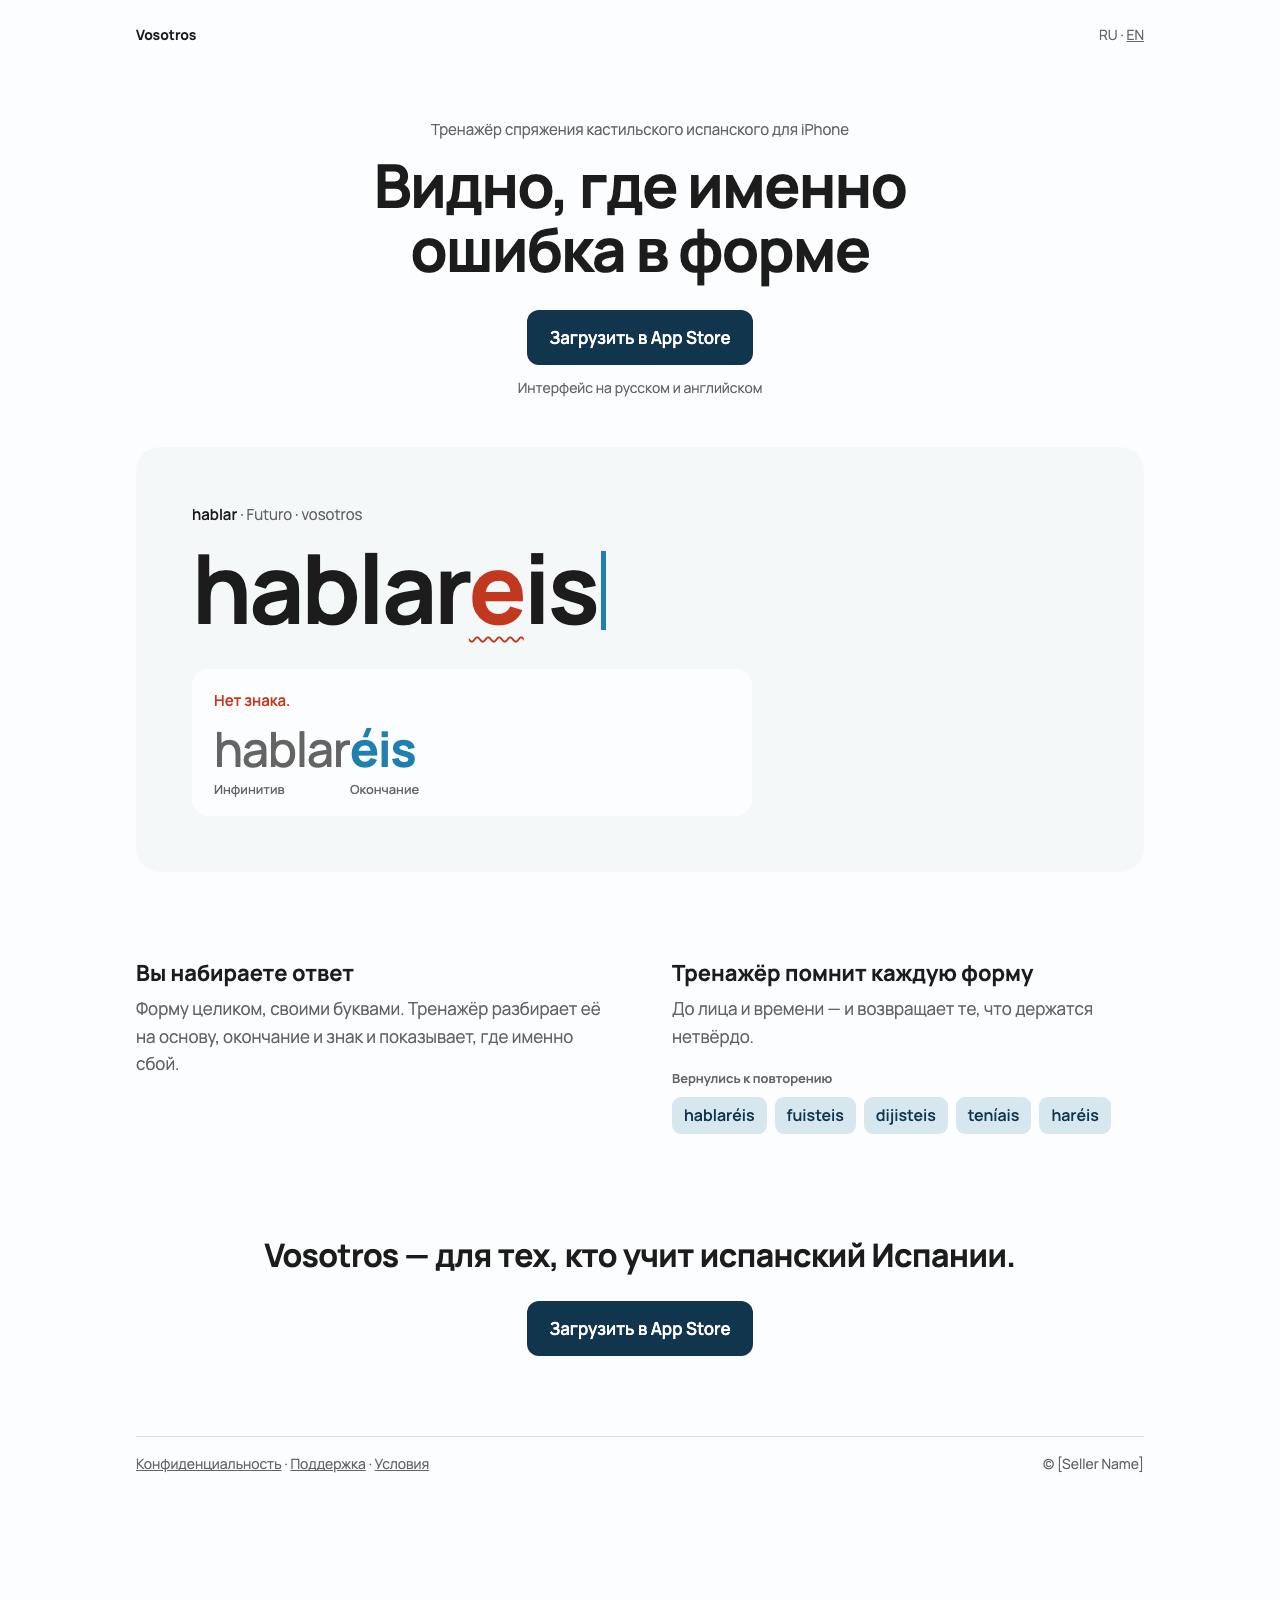
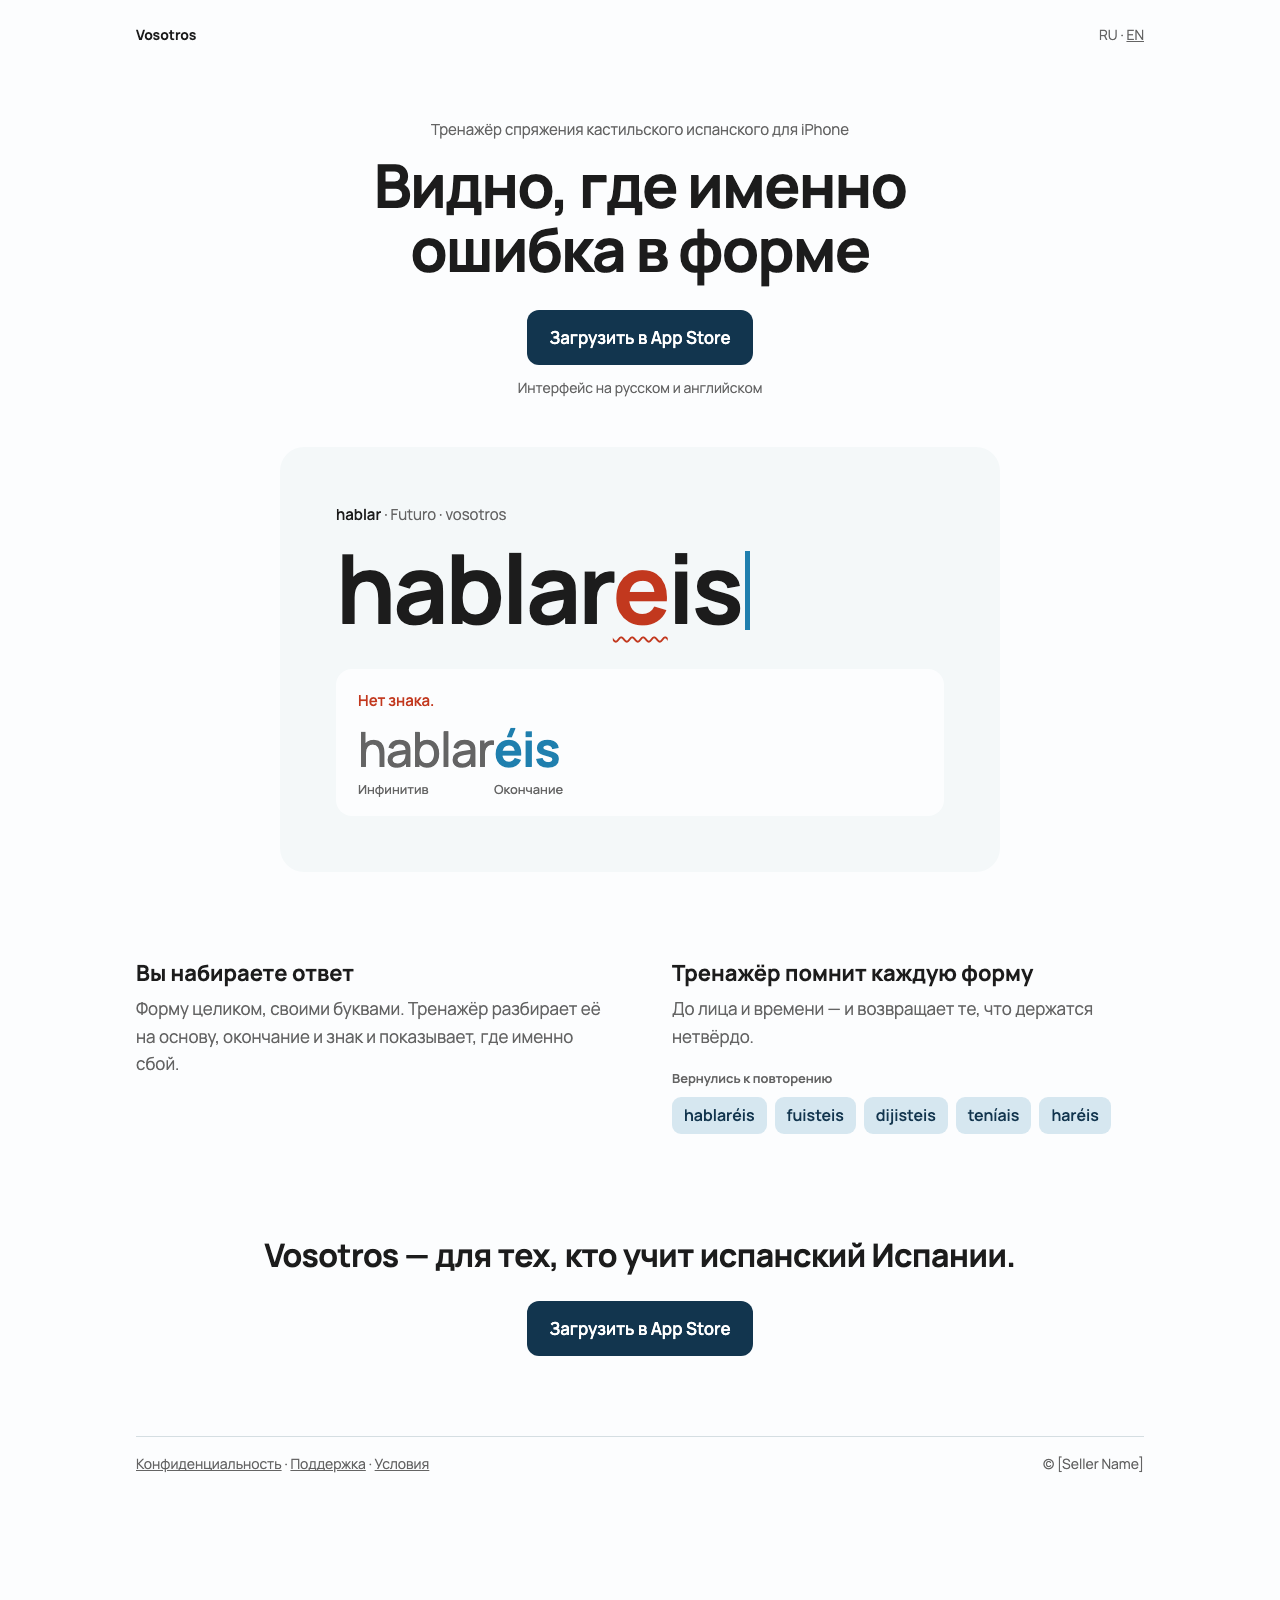
ЛН-1: Б — подложка героя сужена до 720 px и выровнена по колонке заголовка; карточка разбора во всю подложку

Changed region(s): [[0.1562, 0.3125, 0.5938, 0.4062], [0.1562, 0.4375, 0.4375, 0.5]]

diff --git a/design/variant-B-nedelya.html b/design/variant-B-nedelya.html
@@ -19,7 +19,7 @@ header b{color:var(--ink);font-weight:700}
 h1{font-size:clamp(34px,6.4vw,60px);font-weight:700;letter-spacing:-.025em;line-height:1.06;margin:0 0 28px}
 .btn{display:inline-block;background:var(--btn);color:var(--on);text-decoration:none;font-weight:600;border-radius:12px;padding:14px 22px}
 .sub{font-size:14px;color:var(--muted);margin:12px 0 0}
-.sheet{background:var(--sheet);border-radius:24px;padding:clamp(24px,5vw,56px)}
+.sheet{max-width:720px;margin:0 auto;background:var(--sheet);border-radius:24px;padding:clamp(24px,5vw,56px)}
 .ask{font-size:15px;color:var(--muted);margin:0}
 .ask b{color:var(--ink);font-weight:600}
 .typed{font-size:clamp(44px,10vw,96px);font-weight:700;letter-spacing:-.03em;line-height:1.1;margin:8px 0 28px;word-break:break-word}
@@ -27,7 +27,7 @@ h1{font-size:clamp(34px,6.4vw,60px);font-weight:700;letter-spacing:-.025em;line-
 .caret{display:inline-block;width:.06em;height:.82em;background:var(--mark);vertical-align:-.06em;margin-left:.04em;animation:blink 1.1s steps(1) infinite}
 @keyframes blink{50%{opacity:0}}
 @media (prefers-reduced-motion:reduce){.caret{animation:none}}
-.fix{background:var(--bg);border-radius:16px;padding:20px 22px;max-width:560px}
+.fix{background:var(--bg);border-radius:16px;padding:20px 22px}
 .fix .verdict{margin:0 0 10px;font-size:15px;font-weight:600;color:var(--err)}
 .fix .row{margin:0;font-size:clamp(32px,6vw,48px);font-weight:700;letter-spacing:-.02em;line-height:1.1}
 .fix .row .st{color:var(--muted);font-weight:500}

diff --git a/design/variant-B.html b/design/variant-B.html
@@ -19,7 +19,7 @@ header b{color:var(--ink);font-weight:700}
 h1{font-size:clamp(34px,6.4vw,60px);font-weight:700;letter-spacing:-.025em;line-height:1.06;margin:0 0 28px}
 .btn{display:inline-block;background:var(--btn);color:var(--on);text-decoration:none;font-weight:600;border-radius:12px;padding:14px 22px}
 .sub{font-size:14px;color:var(--muted);margin:12px 0 0}
-.sheet{background:var(--sheet);border-radius:24px;padding:clamp(24px,5vw,56px)}
+.sheet{max-width:720px;margin:0 auto;background:var(--sheet);border-radius:24px;padding:clamp(24px,5vw,56px)}
 .ask{font-size:15px;color:var(--muted);margin:0}
 .ask b{color:var(--ink);font-weight:600}
 .typed{font-size:clamp(44px,10vw,96px);font-weight:700;letter-spacing:-.03em;line-height:1.1;margin:8px 0 28px;word-break:break-word}
@@ -27,7 +27,7 @@ h1{font-size:clamp(34px,6.4vw,60px);font-weight:700;letter-spacing:-.025em;line-
 .caret{display:inline-block;width:.06em;height:.82em;background:var(--mark);vertical-align:-.06em;margin-left:.04em;animation:blink 1.1s steps(1) infinite}
 @keyframes blink{50%{opacity:0}}
 @media (prefers-reduced-motion:reduce){.caret{animation:none}}
-.fix{background:var(--bg);border-radius:16px;padding:20px 22px;max-width:560px}
+.fix{background:var(--bg);border-radius:16px;padding:20px 22px}
 .fix .verdict{margin:0 0 10px;font-size:15px;font-weight:600;color:var(--err)}
 .fix .row{margin:0;font-size:clamp(32px,6vw,48px);font-weight:700;letter-spacing:-.02em;line-height:1.1}
 .fix .row .st{color:var(--muted);font-weight:500}
